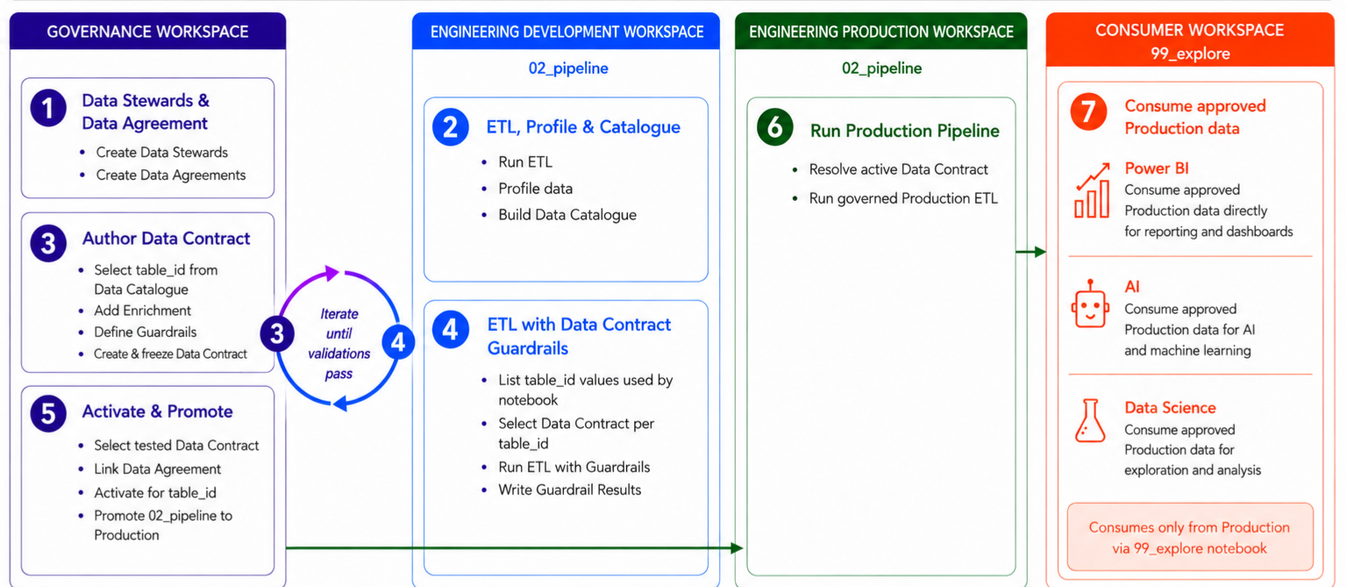
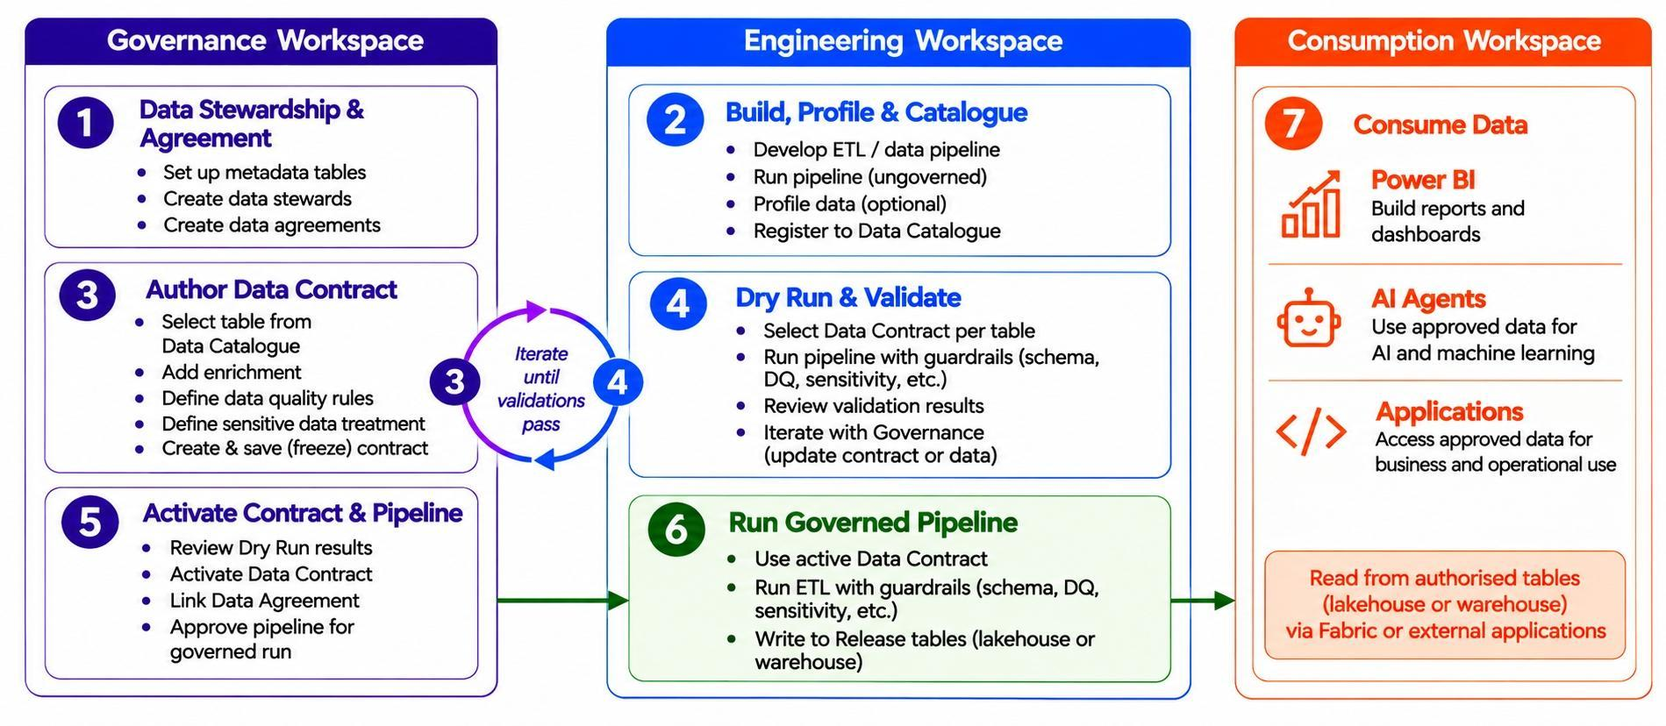
Docs: simplify workspace operating model

diff --git a/docs/guided-demo/06-run-production.md b/docs/guided-demo/06-run-production.md
@@ -1,17 +1,17 @@
-# Step 6. Run the pipeline in Production
+# Step 6. Run the governed pipeline
 
 !!! important "Governed admission remains blocked"
     Complete the signed-in Fabric acceptance checklist before enabling Governed execution. The workflow below describes the intended validated runtime. A promoted Registry row does not override this gate. Imported dependencies are not frozen; saved-definition verification has TOCTOU limits.
 
 ### Before you begin
 
-Complete [Step 5](05-activate-data-contract-and-promote.md) and use the promoted Production pipeline.
+Complete [Step 5](05-activate-data-contract-and-promote.md) and use the separately deployed Governed notebook in the approved execution workspace.
 
-### Load the Production configuration
+### Load the execution workspace configuration
 
-The promoted pipeline calls `setup_notebook()`, which loads the Production workspace's `00_env_config` automatically. To use a shared deployment, pass its workspace ID as `config_workspace_id` in the Setup Notebook block. The following `setup_pipeline(pipeline_mode="Governed")` reuses this configuration and resolves the approved pipeline.
+The Governed notebook calls `setup_notebook()`, which loads the current execution workspace's `00_env_config` automatically. To use a shared deployment, pass its workspace ID as `config_workspace_id` in the Setup Notebook block. The following `setup_pipeline(pipeline_mode="Governed")` reuses this configuration and resolves the approved pipeline. One Engineering workspace can host both the Dry Run and separately deployed Governed notebooks. A cloned pipeline in another workspace requires its own configuration, Step 4 validation, workspace-scoped Contract activations and Step 5 pipeline approval.
 
-The same logical store names now resolve to the Production Lakehouses, Warehouses, schemas, paths, and SQL endpoints.
+Logical store names resolve to the Lakehouses, Warehouses, schemas, paths, and SQL endpoints configured for that execution workspace.
 
 <div class="fabricops-section-banner" markdown="1">
 <img src="/FabricOps-Starter-Kit/assets/mascots/robot-prod.png" alt="" loading="lazy">
@@ -29,17 +29,17 @@ Run the promoted `02A_full_refresh_demo` pipeline from start to finish.
 
 
 
-Production runs the same tested workflow in the Production workspace. It follows the same visible lifecycle used in Development:
+The governed execution runs the reviewed workflow in its configured Engineering workspace:
 
 ```text
 Read → Transform → Write
 ```
 
-The same source reads, transformations, Guardrail checks, governed write logic, profiling, [Lineage](../reference/metadata/metadata_data_lineage.md), and [Processing State](../reference/metadata/metadata_processing_state.md) flow run again against Production resources.
+Source reads, transformations, Guardrail checks, governed write logic, profiling, [Lineage](../reference/metadata/metadata_data_lineage.md), and [Processing State](../reference/metadata/metadata_processing_state.md) run against the configured resources.
 
-Governed uses the **same pipeline workflow in the Production workspace**, with contracts resolved exclusively from activated workspace authority. It verifies the exact effective Agreement, Data Contract versions, active approval and configured physical bindings before execution. Read and Write behavior must match the activated operation configuration.
+Governed uses the **same pipeline workflow in its approved execution workspace**, with Contracts resolved exclusively from activated workspace authority. It verifies the exact effective Agreement, Data Contract versions, active approval and configured physical bindings before execution. Read and Write behavior must match the activated operation configuration.
 
-Run the **separate promoted Governed notebook** returned by Step 5, after tenant validation is complete. Do not switch the development notebook to Governed manually. Its frozen setup mode and exact behavior parameters are verified; ordinary parameter overrides cannot change approved behavior.
+Run the **separate deployed Governed notebook** returned by Step 5, after tenant validation is complete. Do not switch the Dry Run notebook to Governed manually. Its frozen setup mode and exact behavior parameters are verified; ordinary parameter overrides cannot change approved behavior.
 
 Use the same public calls: `setup_pipeline()`, `orchestrate_read()`, `orchestrate_write()` and `finalize_pipeline()`. A new start must use the currently active notebook version. Already admitted older versions may finish with their captured version and Contracts; each target table has one owning pipeline, and schedules must prevent overlapping runs. Stop that pipeline before changing its Contract Activation. Engineers explicitly rebind their schedules to the intended active item. Schedule timing alone may change without promotion.
 
@@ -47,7 +47,7 @@ Use the same public calls: `setup_pipeline()`, `orchestrate_read()`, `orchestrat
 
 Confirm both `writes["curated_orders_lakehouse"]["published"]` and `writes["customer_summary_warehouse"]["published"]` are true. Review the applicable Guardrail Results and inspect the persisted target values, including the configured Sensitive Data treatment on `curated_orders`.
 
-If approval or a manifest contract is missing, return to Governance and resolve the exact pipeline version; do not bypass enforcement or create a Production draft to continue. If a blocking Guardrail fails, resolve the data or implementation issue and rerun. The two Writes are independent: if the second fails, the first target may already be published. See [Step 2A's publication boundary](02A-full-refresh-demo.md#configure-the-governed-writes).
+If approval or a manifest Contract is missing, return to Governance and resolve the exact pipeline version; do not bypass enforcement or create an unapproved clone to continue. If a blocking Guardrail fails, resolve the data or implementation issue and rerun. The two Writes are independent: if the second fails, the first target may already be published. See [Step 2A's publication boundary](02A-full-refresh-demo.md#configure-the-governed-writes).
 
 <div class="fabricops-section-banner" markdown="1">
 <img src="/FabricOps-Starter-Kit/assets/mascots/robot-prod.png" alt="" loading="lazy">
@@ -55,14 +55,14 @@ If approval or a manifest contract is missing, return to Governance and resolve 
 
 ## Grant direct consumer access
 
-Once the governed Production output exists, consumers can query it through PySpark, SQL, or other native Fabric interfaces.
+Once the governed output exists, consumers can query it through PySpark, SQL, or other native Fabric interfaces.
 
 </div>
 </div>
 
 
 
-Grant the required access through the appropriate native Fabric path, such as Workspace roles, SQL endpoint grants, or OneLake security roles. Keep access scoped to the approved Production data the consumer needs.
+Grant the required access through the appropriate native Fabric path, such as Workspace roles, SQL endpoint grants, or OneLake security roles. Keep access scoped to the approved data the consumer needs.
 
 Consumers can then use the standard Fabric experience that fits their work: connect a notebook to the permitted Lakehouse, query the Warehouse or SQL analytics endpoint, use SQL tooling, or connect another supported Fabric consumer. They should not need to recreate the Production engineering pipeline or use FabricOps readers merely to access an already-published table.
 
@@ -70,6 +70,6 @@ FabricOps remains relevant to the access boundary through its effective-access s
 
 ### Expected result
 
-Engineering Production completes the validated pipeline workflow, publishes governed Production outputs using the reviewed Pipeline Promotion, and approved consumers can reach those outputs through native Fabric access controls and interfaces.
+The approved Engineering workspace completes the validated pipeline workflow, publishes governed outputs using the reviewed Pipeline Promotion, and approved consumers can reach those outputs through native Fabric access controls and interfaces.
 
 **Next:** [Step 7. Publish governed data to a Fabric Data Agent](07-consume-production-data.md)

diff --git a/docs/guided-demo.md b/docs/guided-demo.md
@@ -1,6 +1,6 @@
 # FabricOps Guided Demo
 
-**Run the FabricOps operating model yourself in Microsoft Fabric, from initial setup through governed Production consumption.**
+**Run the FabricOps operating model in Microsoft Fabric, from initial setup through governed execution and consumption.**
 
 `00A`, `00B`, and `00C` prepare the Fabric environment, configure the notebooks, exercise the FabricOps I/O helpers, and seed the managed demo tables. Use a dedicated, initially empty Metadata Lakehouse shared only by these demo workspaces. The seven numbered steps then walk you through the implementation. For a complete restart, stop demo jobs and run the single reset cell in 00C with `RESET_DEMO = True`; this clears the dedicated demo metadata and restores Day 1.
 
@@ -33,9 +33,9 @@ Start with <strong>0A–0C</strong> to prepare your Fabric environment, configur
 
 | Setup | What you do | Why it matters |
 | --- | --- | --- |
-| [0A. Prepare Fabric artifacts](guided-demo/00A-prepare-fabric-artifacts.md) | Create the workspaces, stores, and Fabric Environments, then install the FabricOps wheel. | The physical Fabric foundation exists. |
+| [0A. Prepare Fabric artifacts](guided-demo/00A-prepare-fabric-artifacts.md) | Create Governance and Engineering workspaces, stores, and Fabric Environments, then install the FabricOps wheel. | The physical Fabric foundation exists. |
 | [0B. Load and configure the Guided Demo assets](guided-demo/00B-configure-environment-and-load-assets.md) | Import the core notebooks, attach their Fabric Environments, configure `00_env_config`, create empty tables in the dedicated demo Metadata Lakehouse, and upload the packaged demo files to Bronze `Files/demo`. | Every notebook can resolve the configured Fabric stores and the raw demo assets are in place. |
-| [0C. Prepare the demo data with FabricOps I/O](guided-demo/00C-prepare-demo-data-with-fabricops-io.md) | Run `00C_demo_setup` in Engineering Development to demonstrate file, Lakehouse, and Warehouse I/O and seed the original managed source tables. | The Full Refresh demo starts from real managed tables prepared through the public FabricOps I/O helpers. |
+| [0C. Prepare the demo data with FabricOps I/O](guided-demo/00C-prepare-demo-data-with-fabricops-io.md) | Run `00C_demo_setup` in Engineering to demonstrate file, Lakehouse, and Warehouse I/O and seed the original managed source tables. | The Full Refresh demo starts from real managed tables prepared through the public FabricOps I/O helpers. |
 
 <div class="fabricops-section-banner" markdown="1">
 <img src="/FabricOps-Starter-Kit/assets/mascots/robot-carrying.png" alt="" loading="lazy">
@@ -43,14 +43,14 @@ Start with <strong>0A–0C</strong> to prepare your Fabric environment, configur
 
 ## The seven-step FabricOps workflow
 
-Follow <strong>Steps 1–7</strong> from Governance through Engineering, validation, Production, and consumption. Steps <strong>2A–2C</strong> are hands-on pipeline examples within Step 2.
+Follow <strong>Steps 1–7</strong> from Governance through Engineering, validation, governed execution, and consumption. One Engineering workspace is the default; a second workspace is optional. Steps <strong>2A–2C</strong> are hands-on pipeline examples within Step 2.
 
 </div>
 </div>
 
 ![Seven-step FabricOps lifecycle from Governance context to governed consumption](assets/fabricops-role-workflow.png){ .fabricops-section-evidence }
 
-The lifecycle is a hand-off, not a one-way checklist. Steps 3 and 4 repeat until the immutable contract candidate and the real pipeline agree.
+The lifecycle is a hand-off, not a one-way checklist. Steps 3 and 4 repeat until the immutable Contract candidate and the real pipeline agree. If you clone `02_pipeline` into another Engineering workspace, configure that workspace's `00_env_config`, repeat Step 4 there, repeat the workspace-scoped Contract activations and pipeline submission approval in Step 5, then run the approved clone in Step 6.
 
 1. **Establish Governance context.** Record accountable Data Stewards and the versioned Data Agreement that explains why the data is shared.
 2. **Build and observe the pipeline.** Engineering runs real sources and targets in Development, creating Catalogue, profiling, lineage and processing observations.
@@ -80,8 +80,8 @@ The lifecycle is a hand-off, not a one-way checklist. Steps 3 and 4 repeat until
 | [2C. Run the SCD1 and SCD2 Demo](guided-demo/02C-build-and-run-scd-etl.md) | `02C_scd_demo` | Run three complete Product Master snapshots and compare current state with retained history. |
 | [3. Author and freeze the Data Contract](guided-demo/03-author-and-freeze-data-contract.md) | `01_governance` | Select the real `table_id`, author Enrichment, Guardrails, and Processing, then freeze the contract version. |
 | [4. Preview and enforce the frozen Data Contract](guided-demo/04-validate-frozen-data-contract.md) | `02A_full_refresh_demo` | Preview the exact frozen candidate in Dry Run, or enforce an activated version in Governed mode. |
-| [5. Activate Data Contracts and deploy](guided-demo/05-activate-data-contract-and-promote.md) | `01_governance` + Fabric Deployment Pipeline | Link exact contract versions to the Data Agreement, activate them for Production, then deploy the reviewed engineering artifact. |
-| [6. Run the pipeline in Production and grant access](guided-demo/06-run-production.md) | Governed 02A pipeline + native Fabric access | Run the activated Production workflow, publish governed outputs, then grant approved consumers direct access through native Fabric permissions. |
+| [5. Activate Data Contracts and deploy](guided-demo/05-activate-data-contract-and-promote.md) | `01_governance` + Engineering notebook | Activate exact Contract versions for physical tables, approve the exact pipeline submission, then deploy the reviewed notebook. |
+| [6. Run the governed pipeline and grant access](guided-demo/06-run-production.md) | Governed pipeline + native Fabric access | Run the approved workflow in its configured Engineering workspace, publish governed outputs, then grant consumer access through native Fabric permissions. |
 | [7. Consume and productize governed data](guided-demo/07-consume-production-data.md) | Native Fabric interfaces or a project-specific notebook | Review the governed consumer context, discover reusable consumption products, and use a consumption accelerator such as one-shot Data Agent publishing. |
 
 ### Choose Read Mode and Write Mode

diff --git a/docs/guided-demo/00B-configure-environment-and-load-assets.md b/docs/guided-demo/00B-configure-environment-and-load-assets.md
@@ -22,8 +22,8 @@ Import the three reusable notebook templates:
 | --- | --- |
 | `00_env_config.ipynb` | Import into each workspace that runs FabricOps notebooks |
 | `01_governance.ipynb` | Governance workspace |
-| `02_pipeline.ipynb` | Engineering Development workspace |
-| `00C_demo_setup.ipynb`, `02A_full_refresh_demo.ipynb`, `02B_incremental_append_demo.ipynb`, `02C_scd_demo.ipynb` | Engineering Development workspace; keep the original demo notebook names for 00C live-job checks |
+| `02_pipeline.ipynb` | Engineering workspace |
+| `00C_demo_setup.ipynb`, `02A_full_refresh_demo.ipynb`, `02B_incremental_append_demo.ipynb`, `02C_scd_demo.ipynb` | Engineering workspace; keep the original demo notebook names for 00C live-job checks |
 
 In Fabric, open the target workspace, choose **Import notebook**, and upload the downloaded `.ipynb` file.
 
@@ -33,9 +33,9 @@ After importing the notebooks, the two required workspaces should now look like 
 
 The Governance workspace contains the dedicated `demo_metadata` Lakehouse, its Fabric Environment, `00_env_config`, and `01_governance`.
 
-![Engineering Development workspace assets](../assets/00B/Engineering_Assets.png)
+![Engineering workspace assets](../assets/00B/Engineering_Assets.png)
 
-The Engineering Development workspace contains `bronze`, `silver`, `gold`, its Fabric Environment, `00_env_config`, the reusable `02_pipeline`, and the demo notebooks. Production uses the same config template with its own registered workspace ID. Advanced deployments may instead load a shared config notebook from Central Engineering.
+The Engineering workspace contains `bronze`, `silver`, `gold`, its Fabric Environment, `00_env_config`, the reusable `02_pipeline`, and the demo notebooks. If you clone `02_pipeline` into another workspace, configure `00_env_config` there with that workspace's stores and repeat Step 4 validation and Step 5 activation and pipeline approval. Advanced deployments may load a shared config notebook from Central Engineering.
 
 Consumers can use SQL or other native Fabric interfaces directly. For a project-specific consumer notebook using FabricOps, import the config template locally or explicitly select a shared config workspace, register its workspace, and grant access to the existing stores. Each registered workspace uses its workspace ID as the configuration key.
 
@@ -56,7 +56,7 @@ Open each imported notebook and make sure it uses the Fabric Environment created
 2. In the notebook toolbar, make sure the runtime is set to **PySpark (Python)**.
 3. Beside it, open the **Environment** dropdown and choose **Change environment**.
 4. Select the Environment created for that workspace in 0A, where the FabricOps `.whl` was uploaded as a custom library.
-5. Repeat this for every imported notebook in Governance, Engineering Development, and Consumer.
+5. Repeat this for every imported notebook in Governance and Engineering, and in any optional Consumer workspace where you run notebooks.
 
 ![Set the notebook Environment](../assets/00B/fabric-example-set-notebook-environment.png)
 
@@ -74,7 +74,7 @@ For regression validation after a package change, replace the custom library wit
 
 ## Configure `00_env_config`
 
-In each deployment of `00_env_config`, replace the Fabric ID placeholders with the IDs for the items created in 0A. Configure `ENGINEERING_WORKSPACES` using stable workspace IDs as keys and each workspace’s business stores as values. The central Governance workspace uses `GOVERNANCE_WORKSPACE_ID` with Metadata only. Development and Production are example workspace roles; they do not control FabricOps identity or activation order. Keep all demo Metadata stores pointed at the same dedicated `demo_metadata` Lakehouse. Set `GOVERNANCE_METADATA_LAKEHOUSE_ID` and `GOVERNANCE_METADATA_LAKEHOUSE_NAME` to that item. Never change unrelated production/project configuration for this walkthrough.
+In each deployment of `00_env_config`, replace the Fabric ID placeholders with the IDs for the items created in 0A. Configure `ENGINEERING_WORKSPACES` using stable workspace IDs as keys and each workspace’s business stores as values. The central Governance workspace uses `GOVERNANCE_WORKSPACE_ID` with Metadata only. Keep all demo Metadata stores pointed at the same dedicated `demo_metadata` Lakehouse. Set `GOVERNANCE_METADATA_LAKEHOUSE_ID` and `GOVERNANCE_METADATA_LAKEHOUSE_NAME` to that item. Never change unrelated project configuration for this walkthrough.
 
 For this walkthrough, **create the schema-enabled Lakehouse named `demo_metadata` yourself in Fabric**, then set these values in the demo `00_env_config`:
 
@@ -118,9 +118,9 @@ Use the current walkthrough store keys exactly as they appear in `00_env_config`
 | `FabricStore` key | Open this Fabric item | `kind` |
 | --- | --- | --- |
 | `Metadata` | demo Governance → `demo_metadata` (dedicated item) | `lakehouse` |
-| `Bronze` | Engineering Development → `Bronze` | `lakehouse` |
-| `Silver` | Engineering Development → `Silver` | `lakehouse` |
-| `Gold` | Engineering Development → `Gold` | `warehouse` |
+| `Bronze` | Engineering → `Bronze` | `lakehouse` |
+| `Silver` | Engineering → `Silver` | `lakehouse` |
+| `Gold` | Engineering → `Gold` | `warehouse` |
 
 
 <div class="fabricops-section-banner" markdown="1">
@@ -170,10 +170,10 @@ Also download the ready-to-run pipeline demos from [FabricOps DemoData](https://
 
 | Demo notebook | Where it goes now |
 | --- | --- |
-| `02A_full_refresh_demo.ipynb` | Engineering Development workspace |
-| `02B_incremental_append_demo.ipynb` | Engineering Development workspace |
-| `02C_scd_demo.ipynb` | Engineering Development workspace |
-| `00C_demo_setup.ipynb` | Engineering Development workspace |
+| `02A_full_refresh_demo.ipynb` | Engineering workspace |
+| `02B_incremental_append_demo.ipynb` | Engineering workspace |
+| `02C_scd_demo.ipynb` | Engineering workspace |
+| `00C_demo_setup.ipynb` | Engineering workspace |
 
 
 <div class="fabricops-section-banner" markdown="1">
@@ -187,7 +187,7 @@ Upload the downloaded demo files to the Bronze Lakehouse and the demo notebooks 
 </div>
 </div>
 
-1. Open the **Engineering Development** workspace.
+1. Open the **Engineering** workspace.
 2. Open the `bronze` Lakehouse created in 0A.
 3. Under **Files**, create a subfolder named `demo` (**lowercase; paths are case-sensitive**).
 4. Upload the **entire downloaded DemoData folder contents** into that folder.

diff --git a/docs/maintainer/product-definition.md b/docs/maintainer/product-definition.md
@@ -32,7 +32,7 @@ The [FabricOps Glossary](../glossary.md) carries the detailed FabricOps, Governa
 - a Python package containing helper and orchestrator functions
 - standardized Python notebook templates that weave those functions into reusable workflows
 - a shared metadata model connecting Governance intent with recorded profiles, lineage, source observations, resolved read strategies, governed load strategies and parameters, and Guardrail Results
-- an operating model for Engineering Development, Engineering Production, Governance, and Project-Specific Consumer workspaces
+- an operating model for Governance, Engineering, and optional Consumption workspaces
 - a Guided Demo for learning and adopting the workflow
 - technical documentation for notebook templates, metadata tables, data-quality rules, and individual functions
 
@@ -48,21 +48,20 @@ This gives AI and BI consumers a stable, governed, and reusable Production data 
 | --- | --- | --- |
 | 0 | Set up the operating environment | Create the Fabric workspaces and required stores, configure `00_env_config`, and create the metadata tables in Governance. |
 | 1 | Governance — Create Data Stewards and Data Agreements | In `01_governance`, create Data Stewards and establish Data Agreements between accountable stewards. |
-| 2 | Engineering Development — ETL, profile, and catalogue | Build and run `02_pipeline`, profile and catalogue governed tables, and capture Data Lineage and technical observations. |
+| 2 | Engineering — ETL, profile, and catalogue | Build and run `02_pipeline`, profile and catalogue governed tables, and capture Data Lineage and technical observations. |
 | 3 | Governance — Author and freeze the Data Contract | Select the governed `table_id`, author descriptive Enrichment and enforced Guardrails, review the schema and processing definition, and freeze an immutable table-centric version. Do not link a Data Agreement at authoring time. |
-| 4 | Engineering Development — Select and validate | Use the current notebook's `METADATA_DATA_LINEAGE` to discover linked `table_id` values, select one frozen version independently per table, and validate the ETL. Failed validation returns to Step 3 for a new frozen version. |
+| 4 | Engineering — Select and validate | Use the current notebook's `METADATA_DATA_LINEAGE` to discover linked `table_id` values, select one frozen version independently per table, and validate the ETL. Failed validation returns to Step 3 for a new frozen version. |
 | 5 | Governance — Link the Data Agreement and activate | Select the complete successful Testing candidate, link the exact Data Agreement version, and activate the whole pipeline for Live. |
-| 6 | Engineering Production — Promote, run, and hand off access | Promote and run the validated `02_pipeline`. Production automatically resolves the active Data Contract, publishes governed outputs, and approved consumers receive access through native Fabric controls. |
+| 6 | Engineering — Run and hand off access | Run the separately deployed Governed notebook in its approved execution workspace. It resolves workspace-scoped Contract activations and pipeline approval, publishes governed outputs, and approved consumers receive access through native Fabric controls. |
 | 7 | Consumption — Consume and productize governed data | Use native Fabric interfaces or project-specific notebooks to review governed context, consume data directly, or publish to a target such as a Fabric Data Agent. |
 
 ## Canonical operating decisions
 
 | Area | Canonical decision |
 | --- | --- |
-| Workspaces | FabricOps uses Governance, Engineering Development, Engineering Production, and Project-Specific Consumer workspaces where needed. |
+| Workspaces | Governance and Engineering workspaces provide the core operating model. A separate Engineering workspace or Consumption workspace is optional. |
 | Governance | Governance defines ownership, Data Agreements, Enrichment, Guardrails, Data Contracts, and promotion approval. |
-| Development | Engineering Development supports exploration, pipeline development, profiling, testing, and review. |
-| Production | Engineering Production contains approved recurring pipelines and durable Production outputs. |
+| Engineering | One Engineering workspace can support pipeline development, profiling, testing, Governance review and governed execution. Teams can clone `02_pipeline` to another workspace when separate execution or production isolation is useful. |
 | Standard pipeline approach | PySpark is the standard for repeatable `02_pipeline` workflows. |
 | Consumption | Approved consumers can use native Fabric permissions and interfaces directly. Centralized metadata provides reusable context for analytics and AI consumers through direct PySpark or SQL reads. |
 | Consumption products | FabricOps should surface existing products that use the same or overlapping governed tables before creating another. Data Agent publishing is the first automated target; Power BI and other consumers remain parallel paths. |

diff --git a/docs/guided-demo/00A-prepare-fabric-artifacts.md b/docs/guided-demo/00A-prepare-fabric-artifacts.md
@@ -16,7 +16,7 @@ If your organisation does not provide Fabric capacity, you can use a Fabric tria
 
 ## Create the workspaces
 
-Only **Governance** and **Engineering Development** are needed initially. You can add the Production and Consumer workspaces when you reach Steps 6 and 7.
+Only **Governance** and **Engineering** workspaces are needed for the standard walkthrough. A second Engineering workspace or a Consumption workspace is optional.
 
 </div>
 </div>
@@ -55,7 +55,7 @@ The business stores may already exist: reuse only the eleven tables reserved by 
 
 ## Create the Engineering stores
 
-Open **Engineering Development** and create three distinct stores: **bronze**, **silver** lakehouse and **gold** warehouse.
+Open the **Engineering** workspace and create the source, operations, analytics and release stores described below.
 
 </div>
 </div>
@@ -65,17 +65,17 @@ Open **Engineering Development** and create three distinct stores: **bronze**, *
 
 
 
-![Engineering Development Fabric items](../assets/00A/Objects.png)
+![Engineering Fabric items](../assets/00A/Objects.png)
 
-??? info "Optional: prepare Engineering Production and Consumer"
-
-
-Production should be a **1:1 structural mirror** of Development so the validated pipeline can use the same logical stores after promotion.
+??? info "Optional: use another Engineering or Consumption workspace"
 
 
-    If you created **Engineering Production**, repeat the same setup there with `bronze`, `silver`, and `gold` using the same item types and names.
+The Engineering workspace is sufficient for the full walkthrough. A separate governed execution workspace is optional.
 
-    The **Consumer** workspace does not need its own Fabric store for this Guided Demo.
+
+    If you want a separate governed execution workspace, create its Fabric items and Environment when you clone `02_pipeline` there. Configure its own `00_env_config`; repeat Step 4 validation and Step 5 Contract activation and pipeline approval for that workspace before running Step 6. A Consumption workspace is optional and can host consumer notebooks or analysis.
+
+    A separate **Consumption** workspace does not need its own Fabric store for this Guided Demo.
 
 <div class="fabricops-section-banner" markdown="1">
 <img src="/FabricOps-Starter-Kit/assets/mascots/robot-carrying.png" alt="" loading="lazy">
@@ -115,7 +115,7 @@ Fabric Environments can be created in one workspace and shared across all worksp
 </div>
 
 
-A Fabric Environment belongs to a workspace but it can be shared to different users acrosss the organization . An Environment created in Governance is not automatically available in Engineering Development, Engineering Production, or Consumer unless explicity shared with the user.
+A Fabric Environment belongs to a workspace but it can be shared to different users across the organization. An Environment created in Governance is not automatically available in Engineering or another workspace unless explicitly shared with the user.
 
 Start in the **Governance** workspace and create a Fabric **Environment**. Then:
 
@@ -153,8 +153,8 @@ After you are done publishing you can share this environment with anyone in your
 You now have:
 
 - a Governance workspace with the dedicated `demo_metadata` Lakehouse and a published Fabric Environment containing FabricOps;
-- an Engineering Development workspace with `bronze`, `silver`, and `gold`, plus its own published Fabric Environment containing the same FabricOps wheel;
-- optionally, a matching Engineering Production workspace for Step 6, with its own Environment when you are ready to use it; and
+- an Engineering workspace with its source, operations, analytics and release stores, plus a published Fabric Environment containing FabricOps;
+- optionally, a second Engineering workspace with its own configured stores and Environment for a cloned governed pipeline; and
 - optionally, a Consumer workspace for Step 7, with its own Environment when you are ready to run project-specific consumer notebooks.
 
 The physical Fabric foundation is ready. The next step imports the FabricOps notebook templates and demo data.

diff --git a/docs/architecture.md b/docs/architecture.md
@@ -4,20 +4,19 @@
 
 **Governance defines expectations, Engineering produces and validates data, and shared metadata connects both without hiding project-owned transformations.**
 
-![FabricOps operating model showing Governance, Engineering Development, Engineering Production, shared metadata and consumers](assets/fabricops-operating-model-overview.png){ .fabricops-section-evidence }
+![FabricOps operating model showing Governance, Engineering and Consumption workspaces, their Lakehouses and shared Metadata Lakehouse](assets/fabricops-operating-model-overview.png){ .fabricops-section-evidence }
 
 ## Workspace operating model
 
-FabricOps uses Microsoft Fabric workspaces to separate responsibilities and execution scope while keeping the logical Bronze, Silver and Gold roles aligned.
+FabricOps separates Governance, Engineering and Consumption responsibilities. A single Engineering workspace is enough to build, validate and run a governed pipeline. A separate Engineering workspace is optional when teams want workspace isolation or deployment separation.
 
 | Area | Responsibility | FabricOps assets |
 | --- | --- | --- |
 | **Governance Workspace** | Owns stewards, agreements and governed table definitions. | `00_env_config`, `01_governance`, shared Metadata Lakehouse |
-| **Engineering Development** | Builds the notebook pipeline, observes real tables, profiles data and tests changes. | `00_env_config`, `02_pipeline`, Development Lakehouses/Warehouses |
-| **Engineering Production** | Runs the promoted pipeline against Production stores. | The same logical notebook flow with Production configuration |
-| **Project-Specific Consumer** | Uses approved Production data through native Fabric interfaces. | SQL, Spark, notebooks, reports or AI workloads |
+| **Engineering Workspace** | Builds and runs pipelines, observes physical tables, profiles data, validates Contracts and executes approved pipelines. | `00_env_config`, `02_pipeline`, source, operations, analytics and release stores |
+| **Consumption Workspace** | Provides a separate place for analysis or consumer workloads when useful; consumption can also happen through permitted Fabric interfaces. | Notebooks, Lakehouses/Warehouses, reports or AI workloads |
 
-`00_env_config` maps logical store names to environment-specific Fabric workspaces and items. The pipeline therefore addresses a configured logical store instead of assuming the notebook's default Lakehouse. Promotion moves the reviewed notebook; it does not make metadata rows or Fabric permissions appear automatically.
+`00_env_config` maps logical store names to configured workspaces and items. The pipeline addresses configured stores instead of assuming the notebook's default Lakehouse. Teams may keep the pipeline in one Engineering workspace or clone `02_pipeline` into another workspace with its own `00_env_config`. A clone must be validated there, have Contracts activated for its physical tables, and receive a separate Governance approval for its exact submission before governed execution. Promotion and cloning do not transfer metadata authority or Fabric permissions.
 
 ??? info "Under the Hood — workspace and store resolution"
 
@@ -31,7 +30,7 @@ FabricOps uses Microsoft Fabric workspaces to separate responsibilities and exec
 
 ![FabricOps Governance and Engineering cycle around shared metadata](assets/fabricops-roles.png){ .fabricops-section-evidence }
 
-**The cycle is joined by the stable `table_id`, not by a workspace name.** A table has one global Data Contract version history; workspace observations, profiles and activation choices remain workspace-specific.
+**Frozen Data Contract definitions are global; their activations and pipeline approvals are scoped.** The stable `table_id` joins a physical table to its global Contract version history, while physical table activation and pipeline approval are workspace-specific.
 
 1. Engineering registers physical table identity and records observations, profiles and lineage.
 2. Governance uses that evidence to author Enrichment and Guardrails in a versioned Data Contract.

diff --git a/docs/guided-demo/05-activate-data-contract-and-promote.md b/docs/guided-demo/05-activate-data-contract-and-promote.md
@@ -21,6 +21,8 @@ Choose an exact frozen definition for every approved source and target.
 3. Open `widget_activate_data_contract(TABLE_ID, CONTRACT_ID, VERSION, workspace_id=PHYSICAL_WORKSPACE_ID)`, select the applicable exact effective Agreement, review the frozen payload and physical workspace, then explicitly confirm activation.
 4. Repeat for every source and target. `METADATA_DATA_CONTRACT_ACTIVATION` stores these independent selections. The global frozen definition remains unchanged; authoring evidence workspace does not select activation scope.
 
+Contract definitions and versions are global, but activation is scoped to each physical workspace/table (or file source). If `02_pipeline` is cloned to another Engineering workspace, activate the exact required Contract versions for that workspace's physical sources and targets as well.
+
 ??? info "Protection and independent versions"
     Active Contracts protect physical targets from Ungoverned writes, including logical aliases. Two physical workspaces can activate different versions of the same Table ID. Newly admitted runs adopt the current active Contract; existing admitted runs retain their exact captured versions.
 
@@ -40,6 +42,8 @@ Review saved submissions directly from the Metadata Lakehouse.
 3. **Engineering:** beneath Finalize, click **Refresh approvals**, select that approval, and click **Review approved deployment**. Tick the deployment confirmation and click **Deploy approved notebook**. FabricOps creates the separate Governed notebook, archives its snapshot and records it in Registry.
 4. **Engineering:** open the new notebook in the Engineering workspace's **Governed** folder and update your Fabric schedule or notebook activity to target it. Keep the development notebook in Dry Run mode.
 
+The standard walkthrough can use one Engineering workspace for both Dry Run and governed execution. If you clone `02_pipeline` into another workspace, configure that workspace's `00_env_config`, repeat Step 4 validation there, repeat the applicable physical Contract activations above, and submit the clone as a new pipeline package for Governance approval. Pipeline approval is tied to the exact submission and execution workspace; it does not transfer with the clone.
+
 There is no package download, upload or JSON paste. Governance reads the saved submission directly.
 
 To reopen Engineering controls in the same kernel, rerun only `finalize_pipeline(pipeline)`. After a restart, rerun the Environment cell and call `finalize_pipeline()`; another Dry Run is not required just to deploy an existing approval.
@@ -58,6 +62,6 @@ For recovery, select a **Retained implementation**, choose **Restore the active 
 
 `METADATA_PIPELINE_REGISTRY` retains an immutable per-workspace Pipeline version with a separate Governed notebook ID, snapshot pointers/hashes, exact Governance approval/submission references and reviewed bindings. **Governed admission remains blocked pending the [signed-in Fabric checklist](../maintainer/governed-pipeline-fabric-acceptance.md).** Do not treat green local tests as secured Fabric execution.
 
-**Next:** [Step 6. Run Production](06-run-production.md)
+**Next:** [Step 6. Run the governed pipeline](06-run-production.md)
 
 Processing is Engineering-owned. Review the exact read/write modes, read/write parameters, repartitioning and source-to-target associations in the submitted package. Any change requires a new Pipeline Activation approval. File source authorizations retain exact selectors, reader options and frozen Contract hashes; deployment remains blocked until a file orchestration boundary can enforce their Guardrails.

diff --git a/docs/index.md b/docs/index.md
@@ -28,7 +28,7 @@ FabricOps keeps project-specific PySpark visible between governed boundaries. Go
   <span class="fabricops-metadata-preview__body">
     <span class="fabricops-metadata-preview__eyebrow">Architecture</span>
     <strong class="fabricops-metadata-preview__title">See how FabricOps fits together</strong>
-    <span class="fabricops-metadata-preview__description">Understand the Governance, Engineering Development, Engineering Production, shared metadata, Data Contract, and consumer relationships.</span>
+    <span class="fabricops-metadata-preview__description">Understand Governance, Engineering, optional Consumption workspaces, shared metadata, Data Contracts, and workspace-scoped approvals.</span>
     <span class="fabricops-metadata-preview__action">Explore Architecture <span aria-hidden="true">→</span></span>
   </span>
   <span class="fabricops-metadata-preview__image" aria-hidden="true">
